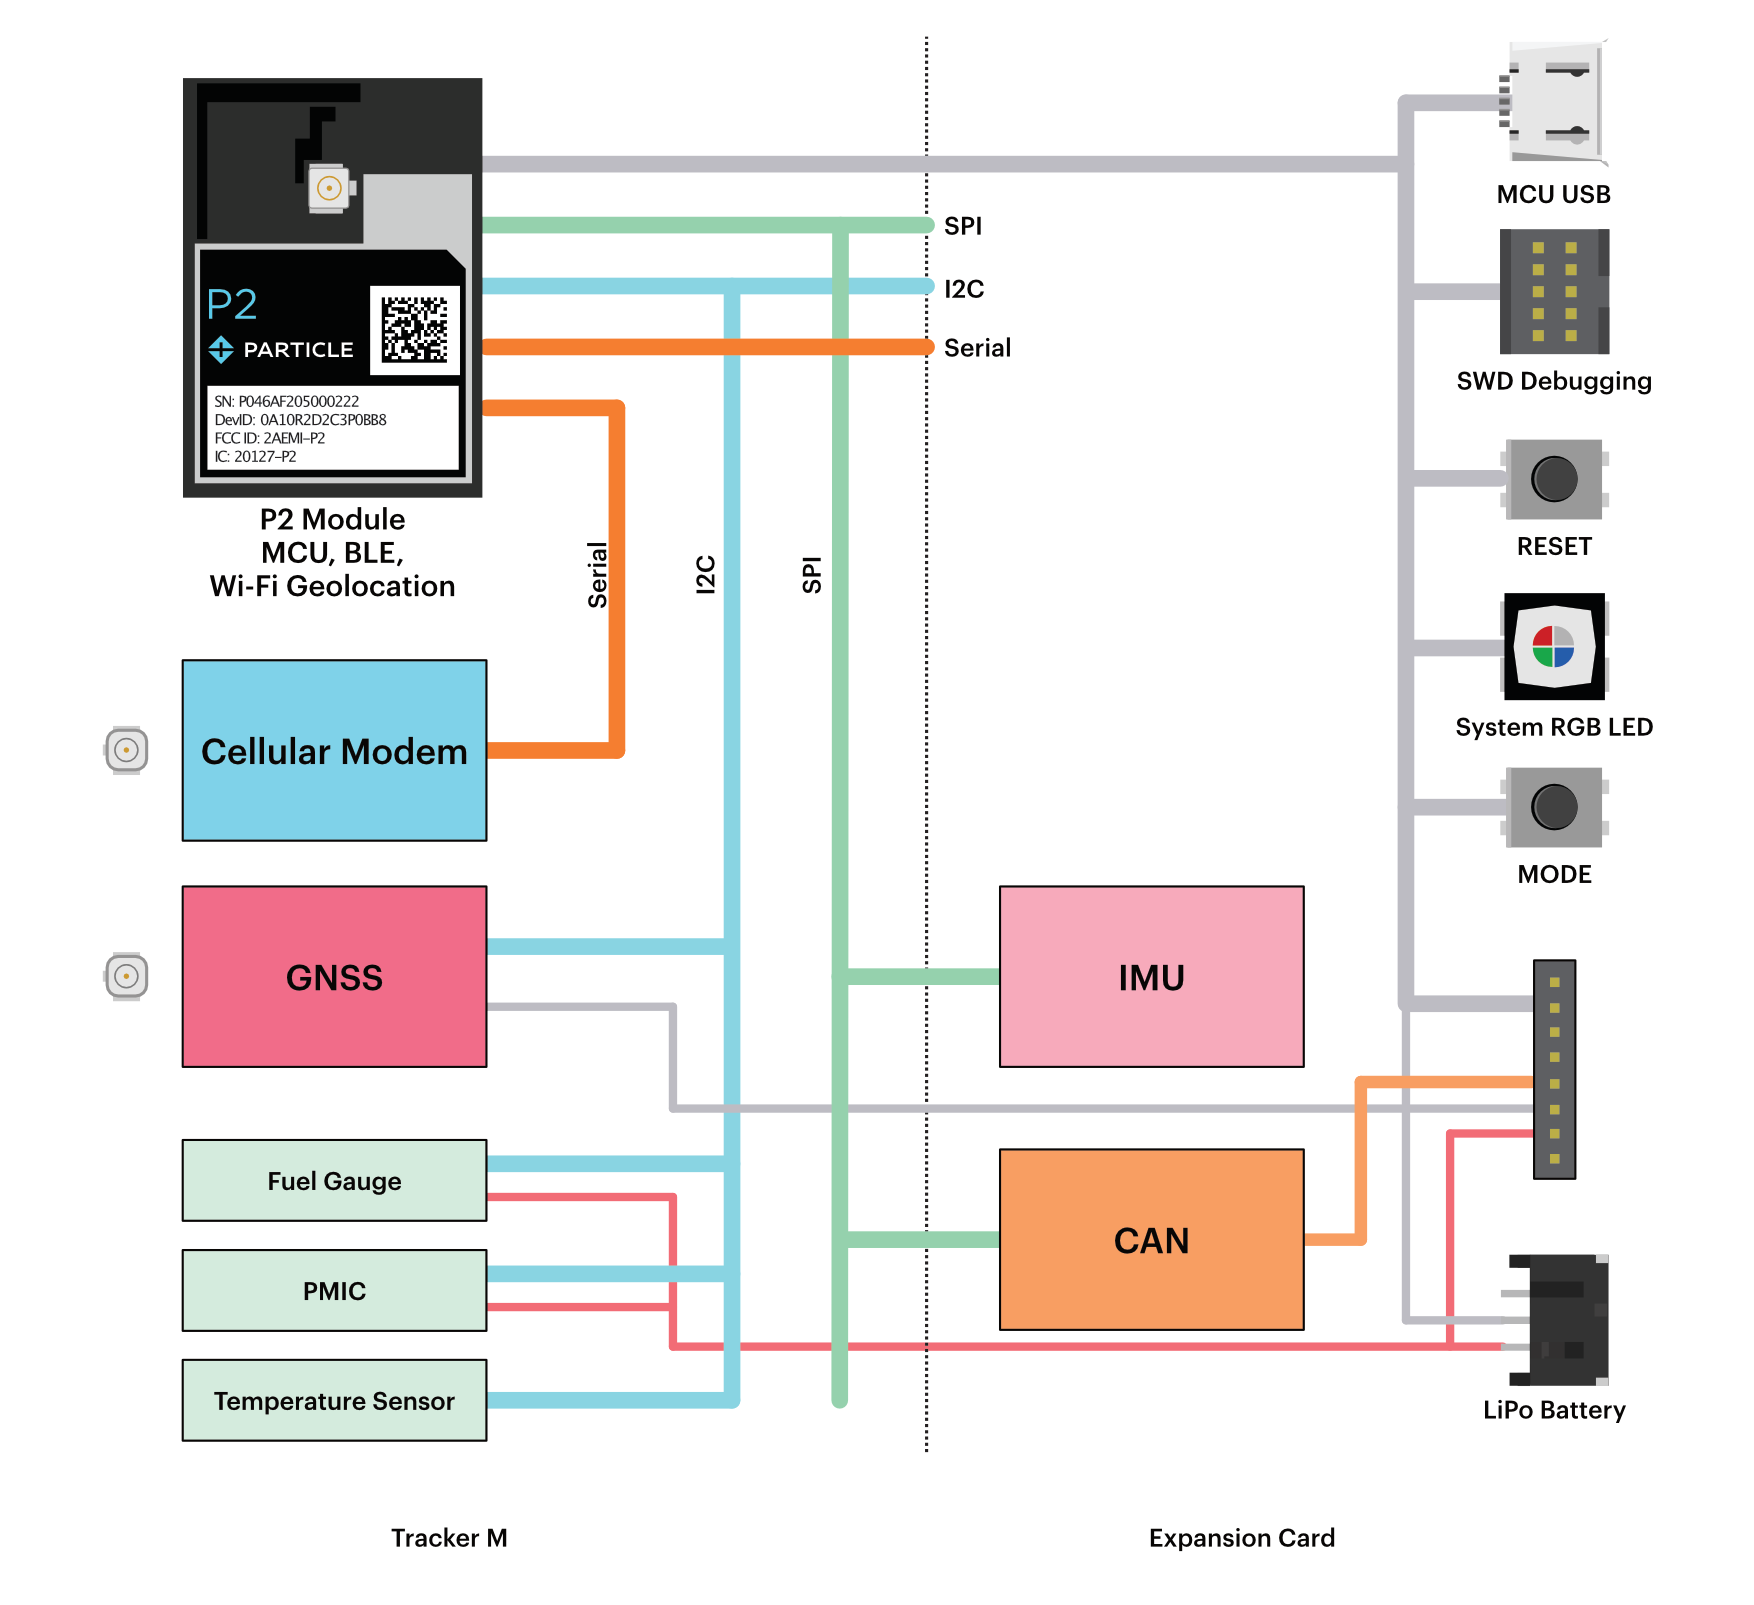
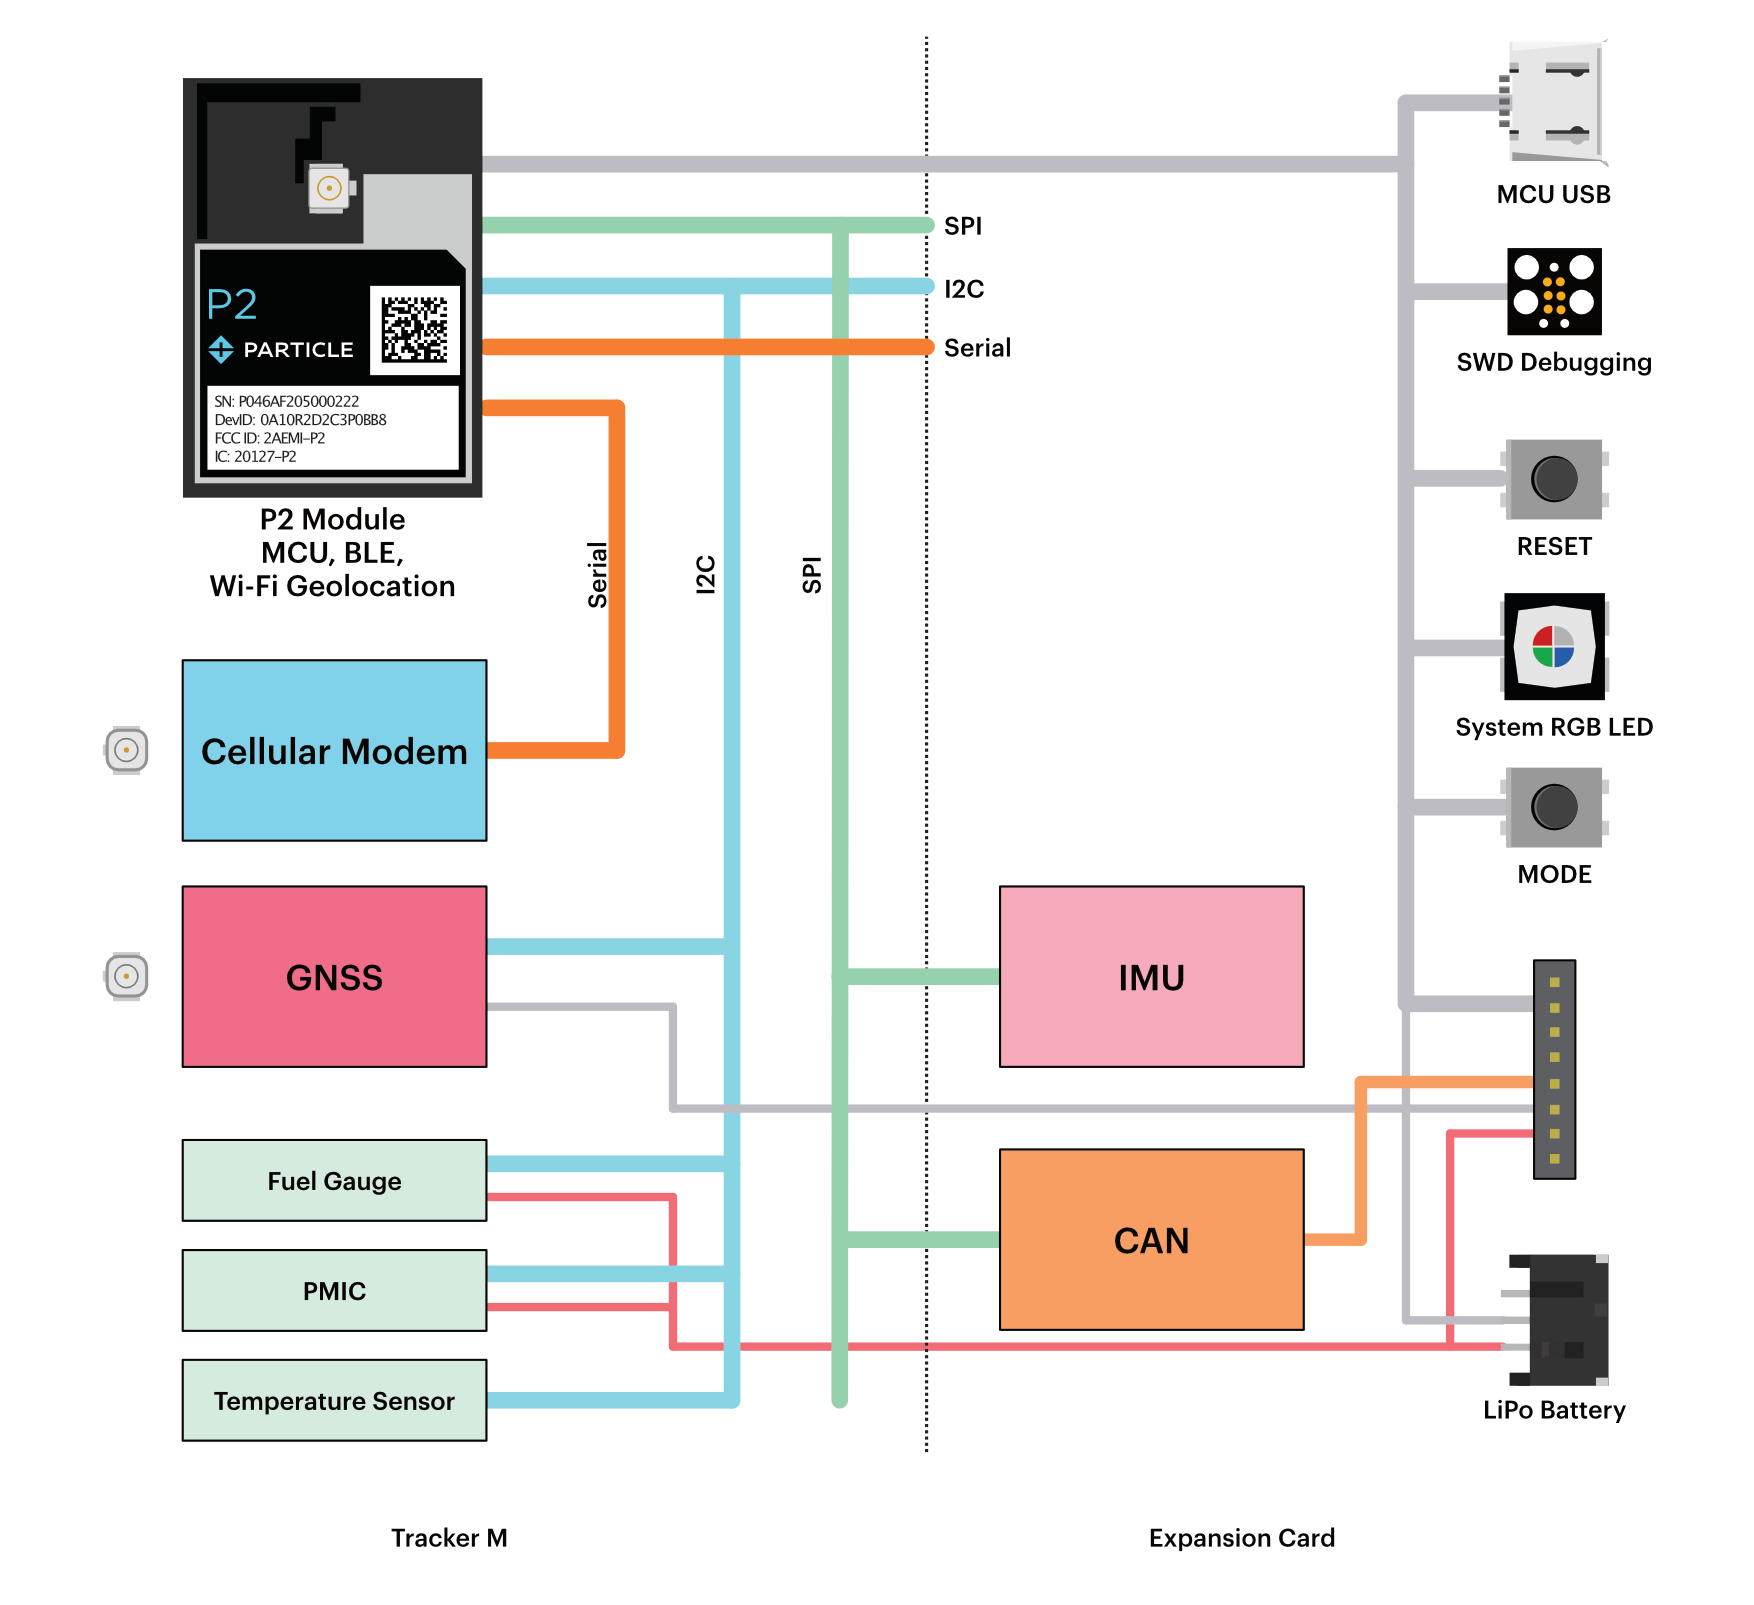
Minor fixes
- Tracker M certification frequency typo
- JTAG connector on Tracker M

Changed region(s): [[0.8312, 0.1246, 0.9544, 0.2492]]

diff --git a/src/content/reference/datasheets/b-series/b524-b523-datasheet.md b/src/content/reference/datasheets/b-series/b524-b523-datasheet.md
@@ -575,8 +575,8 @@ The operating frequency bands and the maximum transmitted power limit are listed
 - BLE 2402-2480MHz, 10dBm
 - LTE B1 B3 B7 B8 B20 B28 704.5-959.3MHz 1710.7-2687.5 MHz, 25dBm
 - WCDMA 882.4-957.6 MHz 1922.6-2167.4 MHz, 25dBm
-- EGSM900 880~915 925~960 MHz (35dBm)
-- DCS1800 1710~1785 1805~1880 MHz (32dBm)
+- EGSM900 880-915 925-960 MHz (35dBm)
+- DCS1800 1710-1785 1805-1880 MHz (32dBm)
 
 
 ### United Kingdom
